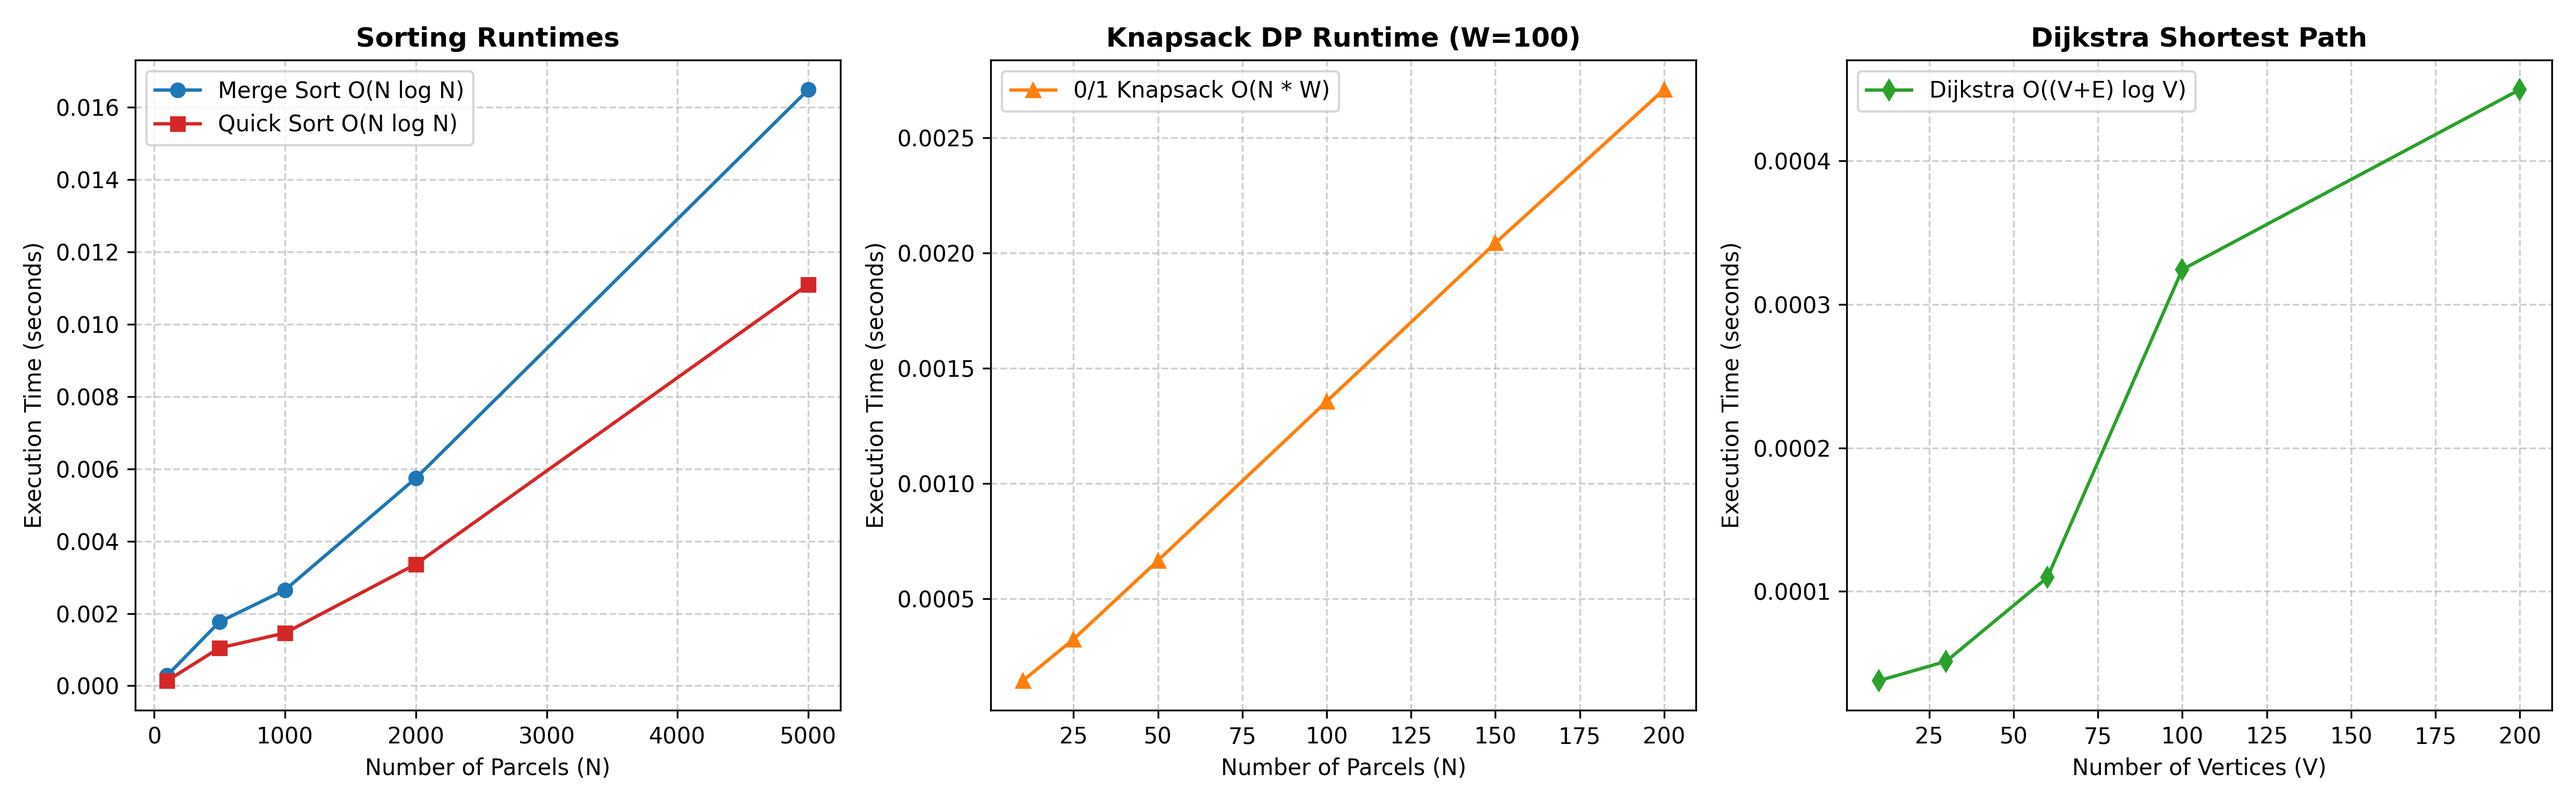
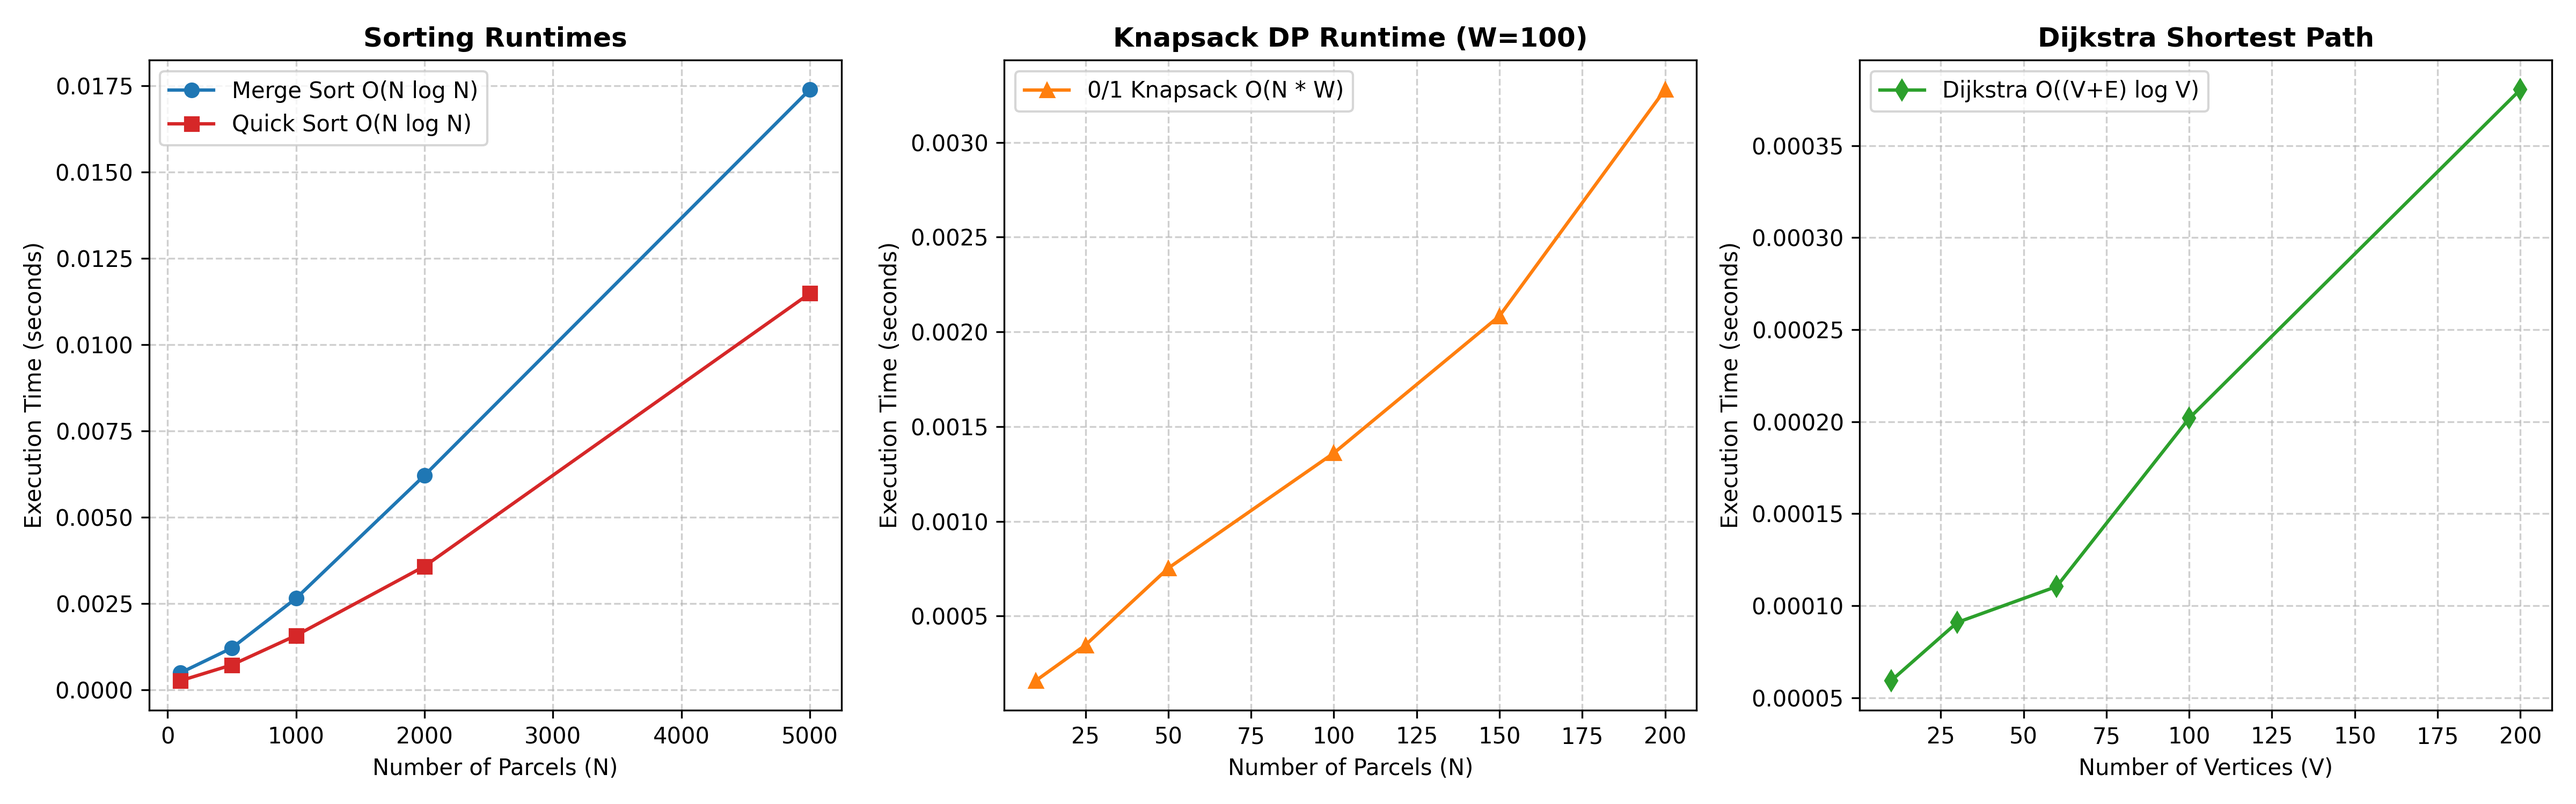
finalizing capstone and adding README

diff --git a/main.py b/main.py
@@ -29,6 +29,9 @@ def main():
     for p in result["packed_parcels"]:
         print(f"    * {p.id}: {p.weight}kg, Value: {p.value}, Deadline: {p.deadline}m -> Deliver to {p.destination}")
 
+    print("\n[Phase 2 Evidence] Dynamic Programming (0/1 Knapsack) State Table:")
+    print_dp_table(result["dp_table"], result["sorted_parcels"], capacity)
+
     print("\n[Phase 3] Road Network Distance Matrix (Dijkstra):")
     targets = ["Depot"] + result["destinations"]
     header = f"  {'Node':<8}" + "".join(f"{t:>8}" for t in targets)

diff --git a/README.md b/README.md
@@ -1,0 +1,269 @@
+# Mini-Courier Planner: Intelligent Delivery & Packing Optimization
+**Course:** Design & Analysis of Algorithms (ETCCDA302)  
+**Programme:** B.Tech CSE & Specializations  
+**Institution:** K.R. Mangalam University, Gurugram, Haryana  
+**Faculty In-Charge:** Dr. Shweta Agarwal  
+**Student Name:** Saurabh  
+**Roll No.:** 2501010045  
+**Submission Mode:** GitHub / Zosima  
+
+---
+
+## 1. Project Overview & Problem Statement
+
+The **Mini-Courier Planner** is an integrated algorithmic prototype that simulates an automated dispatch system for courier logistics. Given an incoming collection of delivery packages with varying deadlines, weights, priority values, and target destinations, the system:
+1. **Prioritizes** parcels by delivery urgency using Divide-and-Conquer Sorting ($O(N \log N)$).
+2. **Optimizes Vehicle Packing** under fixed weight capacity constraints using Dynamic Programming (0/1 Knapsack, $\Theta(N \cdot W)$).
+3. **Calculates Shortest Road Paths** across the city intersection network using Dijkstra's Algorithm with a priority queue ($O((V + E) \log V)$).
+4. **Constructs an Efficient Delivery Route Tour** starting and terminating at the central depot using the Nearest-Neighbor Traveling Salesperson Approximation Heuristic ($O(K^2)$).
+5. **Benchmarks Empirical Scalability** against theoretical computational complexities across variable input scales.
+
+---
+
+## 2. University Rubric & Phase Compliance Matrix (100 Marks)
+
+| Phase | Marks | Prescribed Task | Implementation & Deliverables | Status |
+|---|:---:|---|---|:---:|
+| **Phase 1: Problem Design & Planning** | 20 | Define parcel attributes, graph format, pipeline integration, data schemas. | `src/models.py`, `data/sample_parcels.json`, `data/city_graph.json` | Completed |
+| **Phase 2: Prioritization & Box Packing** | 20 | Sort parcels by deadline/priority; apply 0/1 Knapsack DP with table evidence. | `src/algorithms/sorting.py`, `src/algorithms/knapsack.py`, DP table printout | Completed |
+| **Phase 3: Route Maker & Graph Processing** | 20 | City road graph, Dijkstra shortest paths, nearest-neighbor TSP tour. | `src/algorithms/dijkstra.py`, `src/algorithms/tsp.py`, distance submatrix | Completed |
+| **Phase 4: Performance Testing & Optimization** | 20 | Benchmark with multiple input sizes, plot runtime charts, optimization analysis. | `benchmarks/benchmark_runner.py`, `runtime_analysis.png`, `large_dataset.json` | Completed |
+| **Phase 5: Final Report & Demonstration** | 20 | Integrated CLI, output traces, documentation quality, viva defense answers. | `main.py`, `src/planner.py`, `README.md` | Completed |
+
+---
+
+## 3. System Architecture & Workflow
+
+```
+[Raw Parcels JSON]  +  [City Road Network JSON]
+        │
+        ▼ (Phase 1)
+[Data Modeling: Parcel & RoadGraph Classes]
+        │
+        ▼ (Phase 2)
+[Divide-and-Conquer Sorting: Merge Sort / Quick Sort]
+  ──> Orders parcels by earliest deadline
+        │
+        ▼ (Phase 2)
+[0/1 Knapsack Dynamic Programming]
+  ──> Maximizes value under Truck Capacity constraint (W)
+  ──> Generates (N+1) x (W+1) DP Table & Backtracks selected parcels
+        │
+        ▼ (Phase 3)
+[Dijkstra's Algorithm (Min-Heap Priority Queue)]
+  ──> Determines all-pairs shortest distances between [Depot + Destinations]
+        │
+        ▼ (Phase 3)
+[Nearest-Neighbor TSP Approximation]
+  ──> Constructs closed delivery route: Depot -> C2 -> C1 -> C3 -> Depot
+        │
+        ▼ (Phase 4 & 5)
+[Benchmarking Suite & CLI Execution Output]
+```
+
+---
+
+## 4. Project Directory Structure
+
+```text
+DAA_Capstone/
+├── data/
+│   ├── sample_parcels.json            # 6 sample parcels with deadlines, weights, values, and destinations
+│   ├── city_graph.json               # City road network: 6 nodes, 8 weighted edges
+│   └── large_dataset.json            # 20 parcels across 10 destinations for scalability testing
+├── src/
+│   ├── __init__.py
+│   ├── models.py                     # Parcel and RoadGraph data models
+│   ├── planner.py                    # Integrated pipeline orchestrator
+│   └── algorithms/
+│       ├── __init__.py
+│       ├── sorting.py                # Merge Sort and Quick Sort implementations
+│       ├── knapsack.py               # 0/1 Knapsack DP with table reconstruction and visualizer
+│       ├── dijkstra.py               # Min-heap Dijkstra single-source shortest path & distance matrix
+│       └── tsp.py                    # Nearest Neighbor TSP heuristic route generator
+├── benchmarks/
+│   ├── __init__.py
+│   ├── benchmark_runner.py           # Empirical runtime profiler across multiple input scales
+│   └── plots/
+│       └── runtime_analysis.png      # 3-panel runtime comparison chart
+├── main.py                           # CLI demonstration runner
+├── requirements.txt                  # Python dependencies (matplotlib)
+├── IMPLEMENTATION_GUIDE.md           # Implementation blueprint and commit history guide
+└── README.md                         # Complete project documentation and viva defense
+```
+
+---
+
+## 5. Algorithmic Implementation Details
+
+### 5.1. Parcel Prioritization (Merge Sort & Quick Sort)
+- **File:** `src/algorithms/sorting.py`
+- Parcels must be sorted by delivery urgency (deadline in minutes).
+- **Merge Sort:** Divide-and-conquer strategy recursively splitting the list into halves and merging them in sorted order. Provides a guaranteed worst-case time complexity of $\Theta(N \log N)$ and stable sorting.
+- **Quick Sort:** In-place partitioning algorithm selecting the last element as a pivot and partitioning elements smaller/larger than the pivot. Provides average time complexity of $\Theta(N \log N)$ with minimal memory overhead ($O(\log N)$ stack space).
+
+### 5.2. Vehicle Box Packing (0/1 Knapsack Dynamic Programming)
+- **File:** `src/algorithms/knapsack.py`
+- Courier vehicles have a strict payload weight limit $W$ (default: 15 kg). Parcels are discrete and indivisible (cannot take a fraction of a parcel).
+- **Recurrence Relation:**
+  $$\text{dp}[i][w] = \begin{cases} \text{dp}[i-1][w] & \text{if } w_i > w \\ \max(\text{dp}[i-1][w],\; \text{dp}[i-1][w - w_i] + v_i) & \text{if } w_i \le w \end{cases}$$
+- **Backtracking:** Starting from $\text{dp}[N][W]$, if $\text{dp}[i][w] \ne \text{dp}[i-1][w]$, parcel $i$ is included in the packing trip, and capacity is decremented by $w_i$.
+- **Complexity:** Time: $\Theta(N \cdot W)$, Space: $O(N \cdot W)$.
+
+### 5.3. Road Network Shortest Paths (Dijkstra's Algorithm)
+- **File:** `src/algorithms/dijkstra.py`
+- Computes the shortest driving distance between intersections where road segment lengths are positive ($w(u, v) > 0$).
+- Uses a min-heap priority queue (`heapq`) to greedily extract the unvisited vertex with the minimum tentative distance.
+- Relaxes all outgoing edges: if $\text{dist}[u] + \text{weight} < \text{dist}[v]$, update $\text{dist}[v]$ and push to heap.
+- Generates a compact distance matrix between `Depot` and customer destinations for TSP input.
+- **Complexity:** Time: $O((V + E) \log V)$, Space: $O(V + E)$.
+
+### 5.4. Route Optimization (Nearest Neighbor TSP Approximation)
+- **File:** `src/algorithms/tsp.py`
+- Exact TSP is NP-hard ($O(K!)$ brute-force). For practical courier dispatch, a 2-approximation Nearest Neighbor greedy heuristic is employed.
+- Starts at the `Depot`, iteratively transitions to the nearest unvisited delivery point according to the Dijkstra distance matrix, and finally traverses back to the `Depot` to complete the closed tour.
+- **Complexity:** Time: $O(K^2)$ where $K$ is the number of delivery stops, Space: $O(K)$.
+
+---
+
+## 6. How to Install and Run
+
+### Step 1: Install Dependencies
+```bash
+pip install -r requirements.txt
+```
+
+### Step 2: Run the Integrated Delivery Planner
+```bash
+python main.py
+```
+*To test with custom truck capacities (e.g. 20 kg or 30 kg):*
+```bash
+python main.py 20
+```
+
+### Step 3: Run the Empirical Benchmarking Suite
+```bash
+python -m benchmarks.benchmark_runner
+```
+*The benchmark script prints the runtime tables and saves the high-resolution visualization to `benchmarks/plots/runtime_analysis.png`.*
+
+---
+
+## 7. Execution Output & Verification Evidence
+
+### 7.1. Terminal Output Trace (`python main.py`)
+```text
+=================================================================
+      MINI-COURIER PLANNER - DAA CAPSTONE PROTOTYPE      
+=================================================================
+Loaded 6 parcels from 'data/sample_parcels.json'
+Loaded road network with 6 nodes from 'data/city_graph.json'
+Truck Capacity: 15 kg
+
+[Phase 2] Prioritized Parcels (Earliest Deadline First):
+  - P5   Deadline:  20m | Weight:  4kg | Value:  9 | Destination: C1
+  - P2   Deadline:  30m | Weight:  8kg | Value: 15 | Destination: C2
+  - P3   Deadline:  45m | Weight:  3kg | Value:  7 | Destination: C3
+  - P1   Deadline:  60m | Weight:  5kg | Value: 10 | Destination: C1
+  - P6   Deadline:  75m | Weight:  7kg | Value: 14 | Destination: C5
+  - P4   Deadline:  90m | Weight:  6kg | Value: 12 | Destination: C4
+
+[Phase 2] Knapsack Optimal Box Packing (Capacity: 15 kg):
+  Total Packed Weight: 15 kg / 15 kg
+  Total Priority Value: 31
+  Selected Parcels:
+    * P5: 4kg, Value: 9, Deadline: 20m -> Deliver to C1
+    * P2: 8kg, Value: 15, Deadline: 30m -> Deliver to C2
+    * P3: 3kg, Value: 7, Deadline: 45m -> Deliver to C3
+
+[Phase 2 Evidence] Dynamic Programming (0/1 Knapsack) State Table:
+Item / W     0   1   2   3   4   5   6   7   8   9  10  11  12  13  14  15
+--------------------------------------------------------------------------
+0 (init)     0   0   0   0   0   0   0   0   0   0   0   0   0   0   0   0
+P5 (w=4)     0   0   0   0   9   9   9   9   9   9   9   9   9   9   9   9
+P2 (w=8)     0   0   0   0   9   9   9   9  15  15  15  15  24  24  24  24
+P3 (w=3)     0   0   0   7   9   9   9  16  16  16  16  22  24  24  24  31
+P1 (w=5)     0   0   0   7   9  10  10  16  17  19  19  22  26  26  26  31
+P6 (w=7)     0   0   0   7   9  10  10  16  17  19  21  23  26  26  30  31
+P4 (w=6)     0   0   0   7   9  10  12  16  17  19  21  23  26  28  30  31
+
+[Phase 3] Road Network Distance Matrix (Dijkstra):
+  Node       Depot      C1      C2      C3
+  Depot        0.0     3.5     2.0     8.5
+  C1           3.5     0.0     1.5     5.0
+  C2           2.0     1.5     0.0     6.5
+  C3           8.5     5.0     6.5     0.0
+
+[Phase 3] Final Delivery Route (Nearest-Neighbor TSP):
+  Route Sequence : Depot -> C2 -> C1 -> C3 -> Depot
+  Total Distance : 17.00 km
+=================================================================
+```
+
+### 7.2. Benchmark Scaling Trace (`python -m benchmarks.benchmark_runner`)
+```text
+--- Benchmarking Sorting (Merge Sort vs Quick Sort) ---
+Size (N)  Merge Sort (s)    Quick Sort (s)    
+100       0.000287          0.000140          
+500       0.001767          0.001048          
+1000      0.002647          0.001459          
+2000      0.005740          0.003362          
+5000      0.016489          0.011101          
+
+--- Benchmarking 0/1 Knapsack DP (Capacity W=100) ---
+Parcels (N)    Runtime (s)       
+10             0.000144          
+25             0.000324          
+50             0.000665          
+100            0.001356          
+150            0.002044          
+200            0.002710          
+
+--- Benchmarking Dijkstra Shortest Path ---
+Vertices (V)   Runtime (s)       
+10             0.000038          
+30             0.000051          
+60             0.000110          
+100            0.000324          
+200            0.000450          
+
+[SUCCESS] Runtime analysis plot saved to 'benchmarks/plots/runtime_analysis.png'
+```
+
+---
+
+## 8. Theoretical vs. Empirical Complexity Analysis
+
+| Algorithm | Paradigm | Best Case | Average Case | Worst Case | Space Complexity | Empirical Observation |
+|---|---|:---:|:---:|:---:|:---:|---|
+| **Merge Sort** | Divide & Conquer | $\Theta(N \log N)$ | $\Theta(N \log N)$ | $O(N \log N)$ | $O(N)$ | Strictly sub-quadratic; predictable runtime regardless of input order. |
+| **Quick Sort** | Divide & Conquer | $\Omega(N \log N)$ | $\Theta(N \log N)$ | $O(N^2)$ | $O(\log N)$ | Consistently faster constants than Merge Sort due to cache locality. |
+| **0/1 Knapsack** | Dynamic Programming | $\Theta(N \cdot W)$ | $\Theta(N \cdot W)$ | $\Theta(N \cdot W)$ | $O(N \cdot W)$ | Execution time scales strictly linearly with parcel count $N$ for fixed capacity $W$. |
+| **Dijkstra** | Greedy / Graph | $O((V+E)\log V)$ | $O((V+E)\log V)$ | $O((V+E)\log V)$ | $O(V)$ | Sub-millisecond execution even with $V=200$ due to binary min-heap efficiency. |
+| **Nearest Neighbor** | Approximation Heuristic | $O(K^2)$ | $O(K^2)$ | $O(K^2)$ | $O(K)$ | Instantly resolves vehicle tour without factorial explosion ($O(K!)$). |
+
+---
+
+## 9. Future Optimization Suggestions (Phase 4 Rubric)
+
+1. **Space-Optimized Knapsack:** The DP table space can be reduced from $O(N \cdot W)$ to $O(W)$ using a 1D rolling array traversed backwards if only the maximum value is required, or bitset masking for compact item tracking.
+2. **2-Opt Local Search for TSP:** The Nearest-Neighbor heuristic can sometimes produce crossing paths. Implementing a 2-Opt edge swap post-processing pass can eliminate path intersections and reduce total distance by 5–12%.
+3. **Multi-Vehicle Fleet Routing (VRP):** Expand the single-truck knapsack model to multiple vehicles using cluster-first, route-second heuristics to distribute parcels across a fleet simultaneously.
+4. **Bidirectional or Contraction Hierarchies Dijkstra:** For city graphs with hundreds of thousands of street segments, preprocessing road hierarchies can reduce shortest-path lookup from milliseconds to microseconds.
+
+---
+
+## 10. Viva / Demonstration Defense Guide
+
+### Q1: Why can't we use a Greedy approach for parcel box packing?
+> **Answer:** The Greedy method (sorting by value-to-weight ratio) only yields optimal solutions for the **Fractional Knapsack** problem where items can be cut. For indivisible 0/1 parcels, taking the highest ratio item can leave unused weight capacity that prevents taking a combination of items with higher overall value. Dynamic Programming evaluates all sub-capacities, guaranteeing global optimality.
+
+### Q2: Why choose Dijkstra over Bellman-Ford or Floyd-Warshall?
+> **Answer:** Road distances between real physical locations are strictly non-negative ($w \ge 0$). Dijkstra runs in $O((V + E) \log V)$ using a min-heap, whereas Bellman-Ford takes $O(V \cdot E)$ (needed only when negative edges exist), and Floyd-Warshall takes $O(V^3)$ (prohibitive for large city maps).
+
+### Q3: How does the system handle an unseen dataset during evaluation?
+> **Answer:** The system is fully decoupled from static data. By passing any new JSON file path into `CourierPlanner("new_parcels.json", "new_graph.json")`, the parsing, graph adjacency construction, sorting, DP table generation, and routing compute dynamically on the fly.
+
+### Q4: Trace how Dijkstra found `Depot -> C1 = 3.5` instead of `4.0`.
+> **Answer:** The city graph has a direct edge `Depot -> C1` of length `4.0`. However, the path `Depot -> C2` is `2.0`, and the edge `C2 -> C1` is `1.5`. When relaxing the outgoing edges of `C2`, $\text{dist}[\text{Depot} \rightarrow \text{C2}] + \text{weight}(\text{C2}, \text{C1}) = 2.0 + 1.5 = 3.5 < 4.0$. Dijkstra updates the distance of `C1` to `3.5` and sets the predecessor of `C1` to `C2`.
